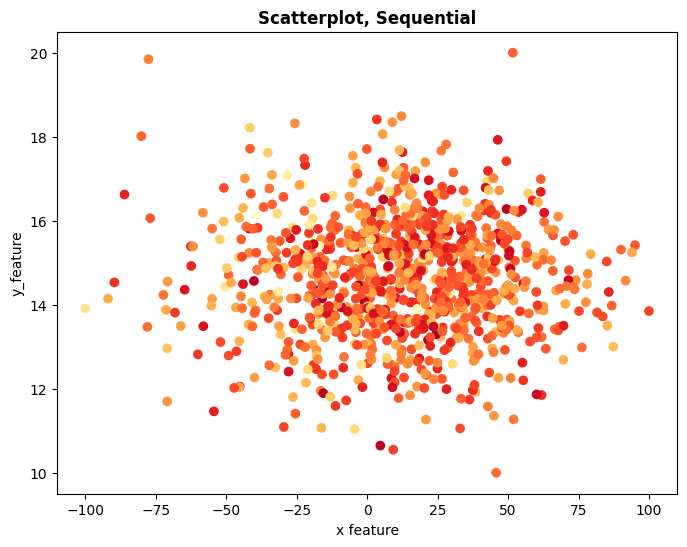
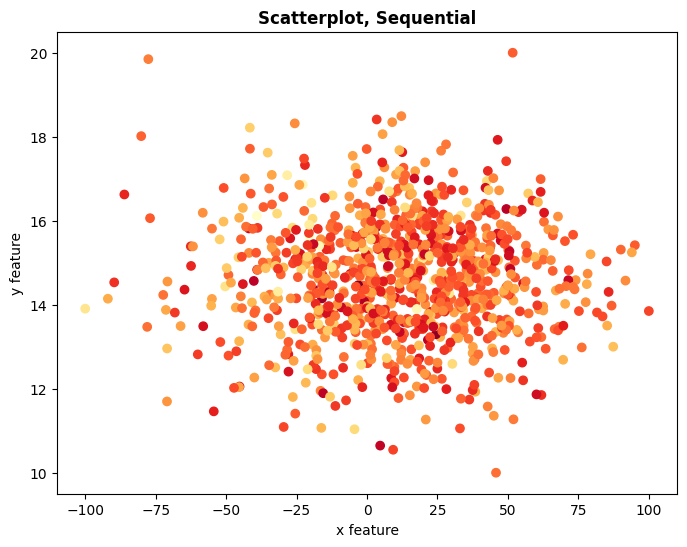
Add line chart examples:

Changed region(s): [[0.0, 0.404, 0.0306, 0.5594], [0.4279, 0.9013, 0.4585, 0.9634]]

diff --git a/examples/linechart.py b/examples/linechart.py
@@ -2,6 +2,76 @@
 
 # global imports
 import os
+import numpy as np
 import pandas as pd
 import matplotlib.pyplot as plt
 from dexplorer.visualizations import LineChart
+
+# function arguments
+x_column = 'time' 
+y_column = 'feature_5' 
+x_label = 'x feature'
+y_label = 'y feature'
+figsize = (8, 6)
+
+### Main Program ###
+
+# get data
+data = pd.read_csv('data.csv')
+data = data.head(50)
+data['feature_1'] = (-4 * data['feature_1']) + data['feature_5']
+data['feature_2'] = 4 * data['feature_2']
+data['feature_8'] = (4 * data['feature_8']) + data['feature_5']
+data['time'] = np.arange(data.shape[0])
+
+# basic line chart
+error_column = None 
+error_high_column = None
+
+line_chart = LineChart(data, x_column, y_column, x_label, y_label, 
+                       error_column=error_column, 
+                       error_high_column=error_high_column, 
+                       figsize=figsize
+                       )
+
+line_chart_basic = line_chart.create_plot('Line Chart, Basic')
+plt.savefig(os.path.join('plots', 'line_chart_basic.png'),
+            bbox_inches='tight'
+            )
+
+# basic line chart colored by column
+line_chart_basic = line_chart.create_plot('Line Chart, Basic', 
+                                          color_column='feature_11'
+                                          )
+plt.savefig(os.path.join('plots', 'line_chart_categorical.png'),
+            bbox_inches='tight'
+            )
+
+# centered error line chart
+error_column = 'feature_2'
+
+line_chart = LineChart(data, x_column, y_column, x_label, y_label, 
+                       error_column=error_column, 
+                       error_high_column=error_high_column, 
+                       figsize=figsize
+                       )
+
+line_chart_centered_error = line_chart.create_plot('Line Chart, Centered Error')
+plt.savefig(os.path.join('plots', 'line_chart_centered_error.png'),
+            bbox_inches='tight'
+            )
+
+# off-centered error line chart
+error_column = 'feature_1'
+error_high_column = 'feature_8'
+
+line_chart = LineChart(data, x_column, y_column, x_label, y_label, 
+                       error_column=error_column, 
+                       error_high_column=error_high_column, 
+                       figsize=figsize
+                       )
+
+line_chart_offcentered_error = line_chart.create_plot('Line Chart, Off-Centered Error')
+plt.savefig(os.path.join('plots', 'line_chart_offcentered_error.png'),
+            bbox_inches='tight'
+            )

diff --git a/dexplorer/visualizations/plot2d.py b/dexplorer/visualizations/plot2d.py
@@ -95,12 +95,12 @@ class LineChart(Plot2D):
                  x_label: str, y_label: str, error_column: str=None, 
                  error_high_column: str=None, figsize: Tuple=(8, 6)):        
         # initialize super class
-        super(Scatterplot, self).__init__(data, x_column, y_column, 
-                                          x_label, y_label, 
-                                          error_column=error_column, 
-                                          error_high_column=error_high_column, 
-                                          figsize=figsize
-                                          )
+        super(LineChart, self).__init__(data, x_column, y_column, 
+                                        x_label, y_label, 
+                                        error_column=error_column, 
+                                        error_high_column=error_high_column, 
+                                        figsize=figsize
+                                       )
 
     def _add_plot_data(self, fig: Any, data: pd.DataFrame, color: str=None):
         # create plot

diff --git a/examples/scatterplot.py b/examples/scatterplot.py
@@ -10,7 +10,7 @@ from dexplorer.visualizations import Scatterplot
 x_column = 'feature_0'
 y_column = 'feature_1'
 x_label = 'x feature'
-y_label = 'y_feature'
+y_label = 'y feature'
 figsize = (8, 6)
 
 ### Main Program ###
